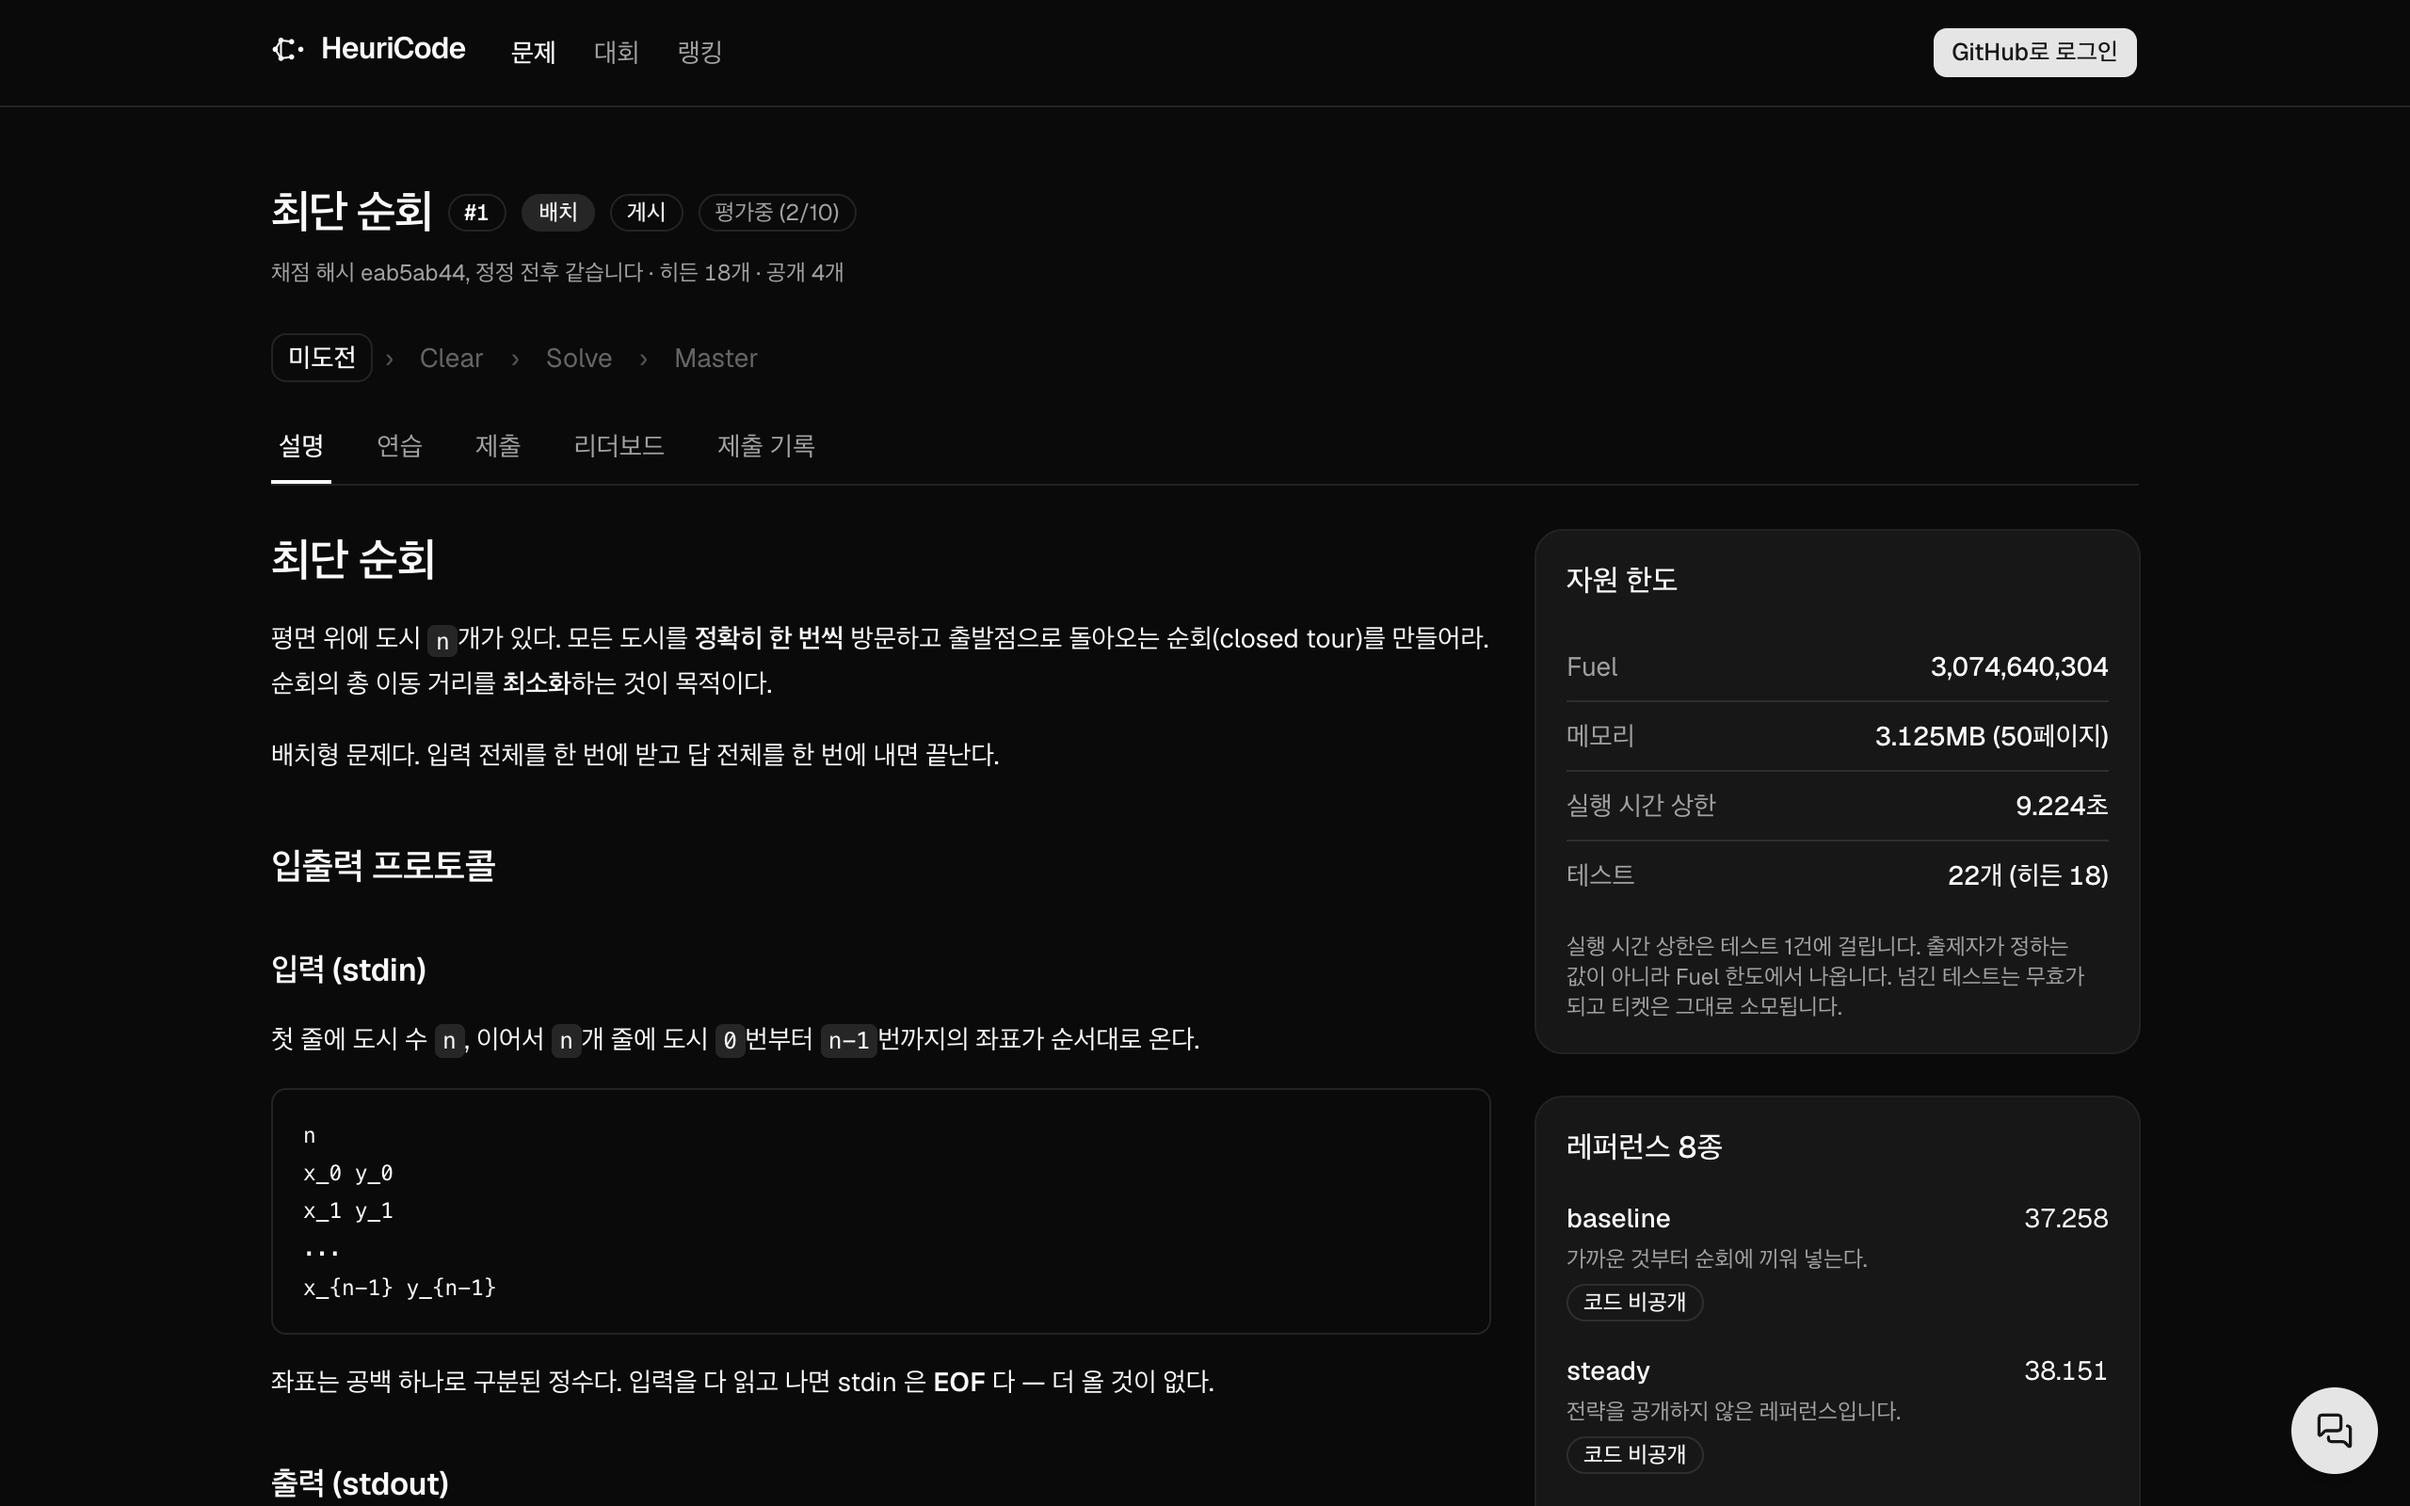
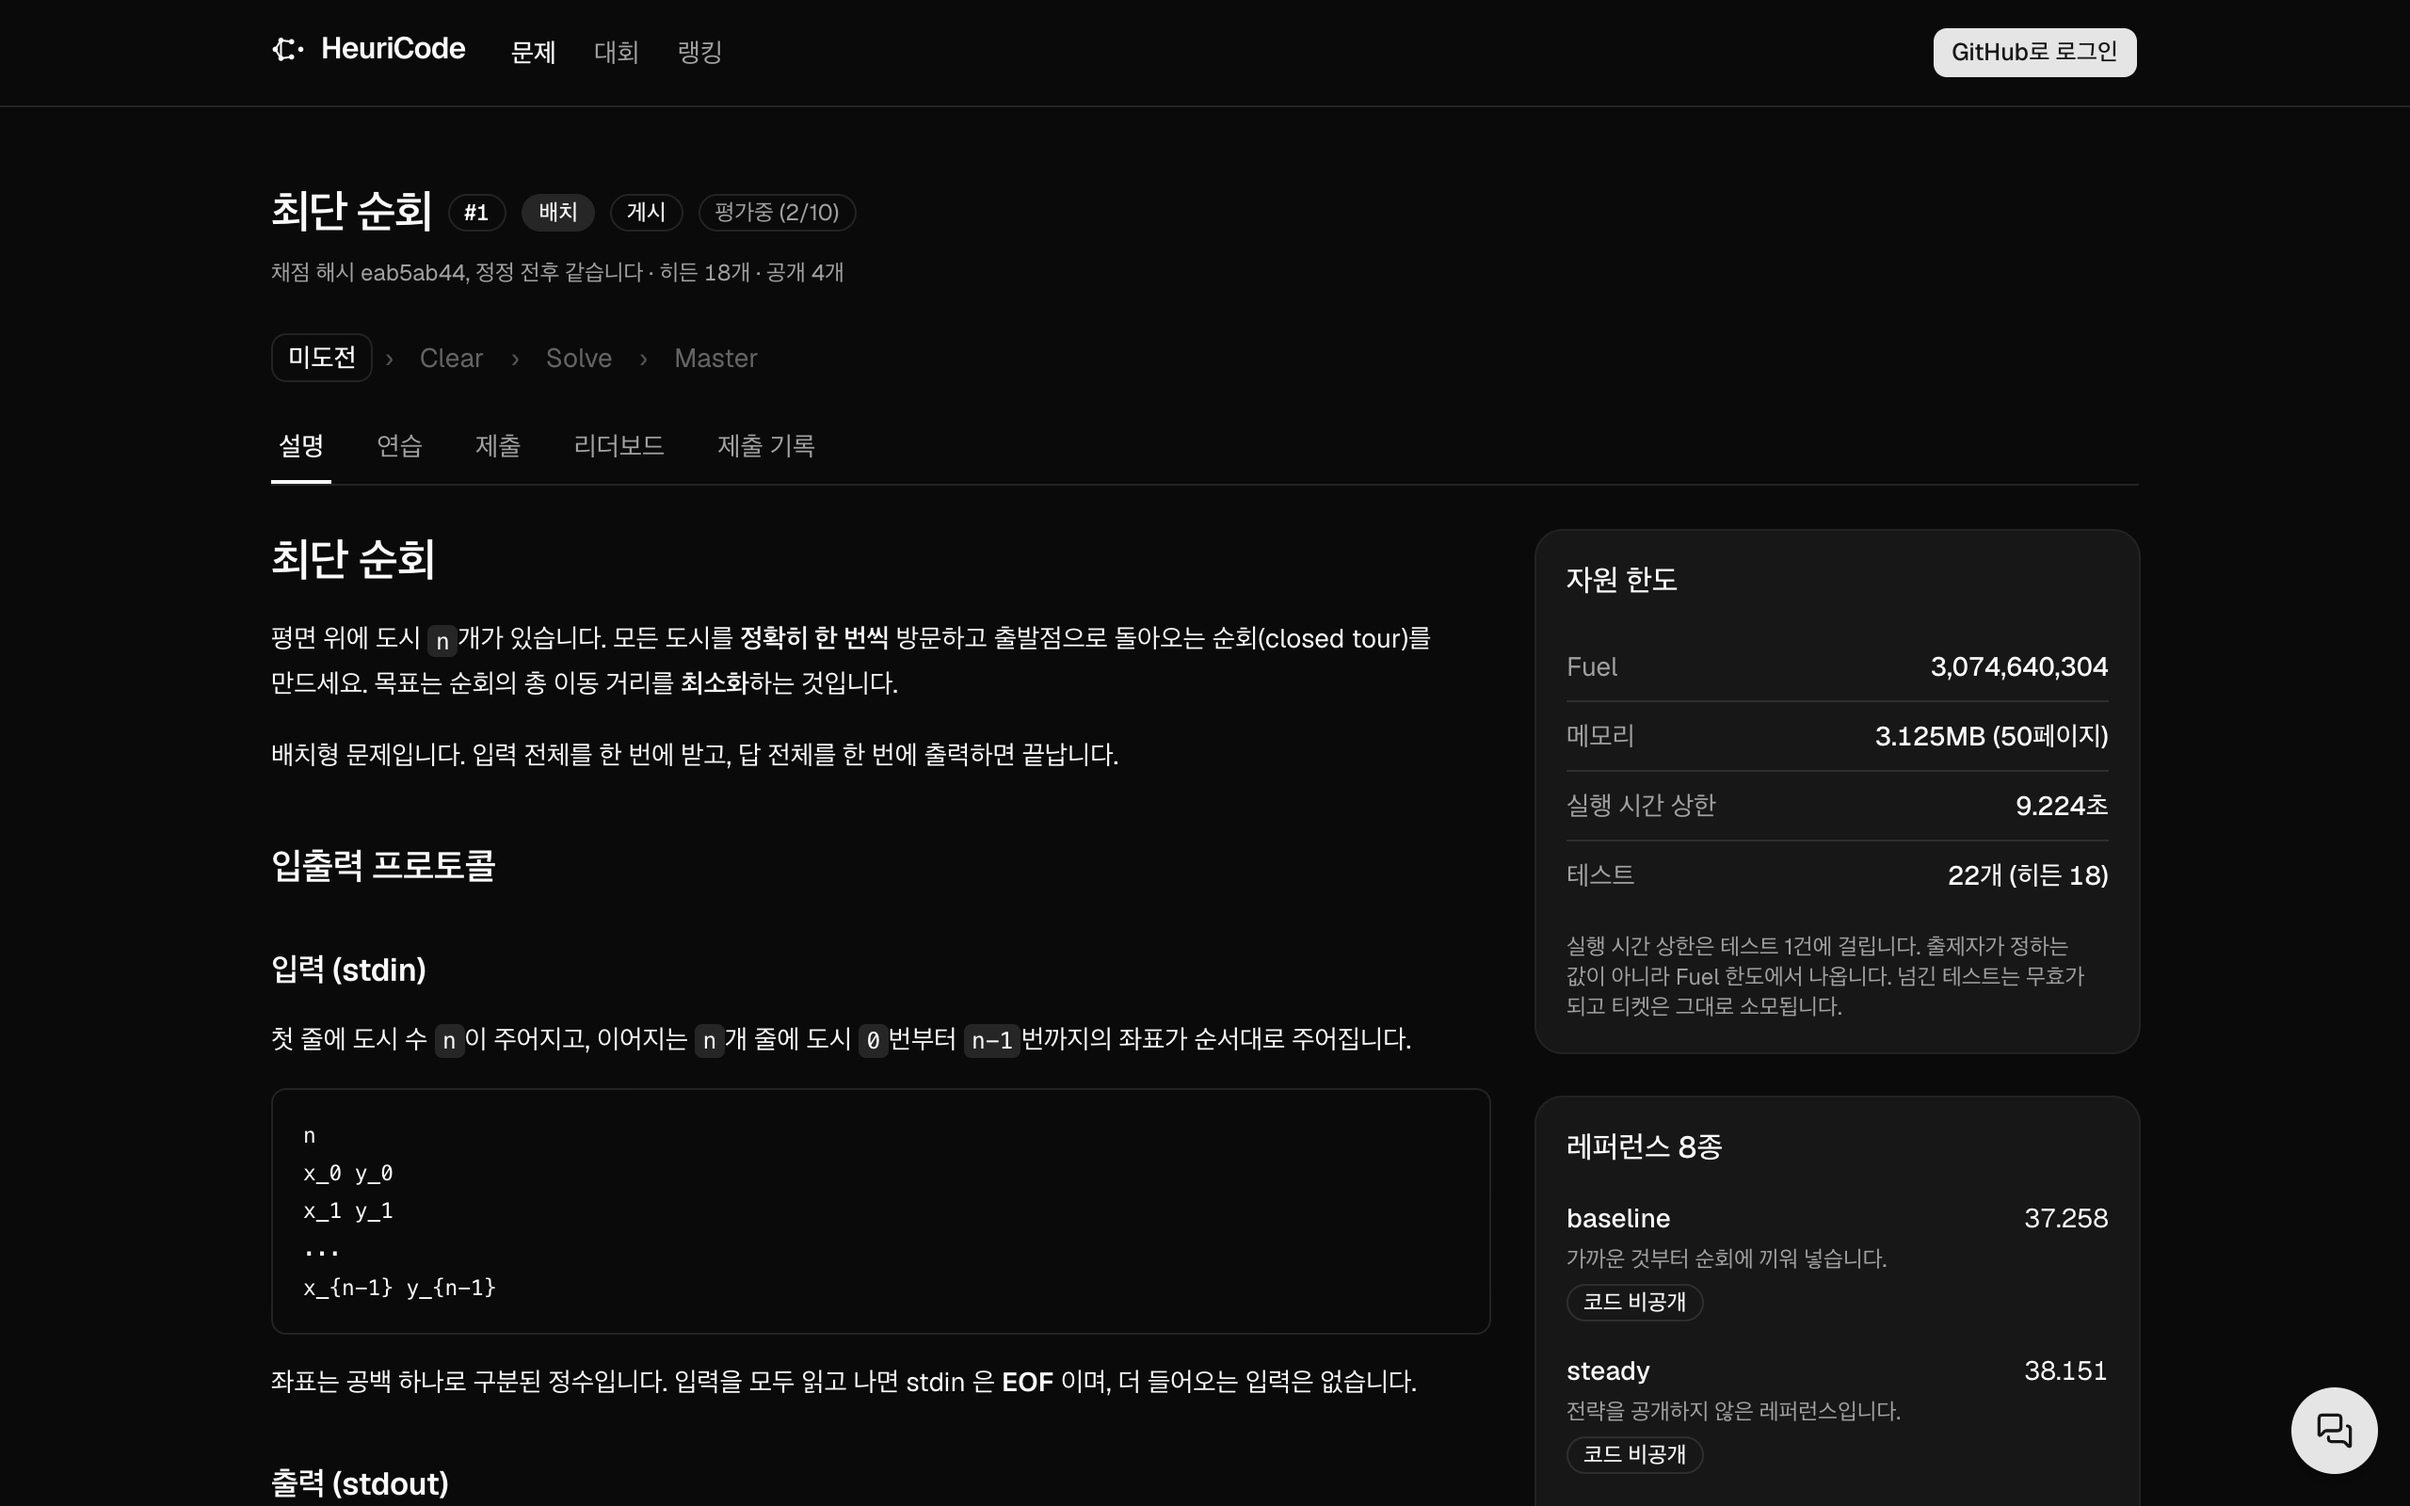
product: update images

diff --git a/products/01-heuri-code/index.md b/products/01-heuri-code/index.md
@@ -4,3 +4,11 @@ url: https://heuricode.nulleekh.com
 summary_ko: 경쟁형 알고리즘 문제풀이 플랫폼
 summary_en: A competitive platform for algorithm optimization
 ---
+
+![제출 평가 화면: Score와 레퍼런스별 승패](report.webp)
+
+![문제 리더보드와 자원 한도](leaderboard.webp)
+
+![문제 목록](problems.webp)
+
+![내 대시보드: 티어, 제출 티켓, 최근 제출](dashboard.webp)

diff --git a/products/03-halo/index.md b/products/03-halo/index.md
@@ -4,3 +4,5 @@ url: https://github.com/nulLeeKH/halo
 summary_ko: 사진과 함께 시계, 날씨, 일정을 보여주는 라즈베리 파이 기반 디지털 액자
 summary_en: A Raspberry Pi-based digital photo frame that also shows the time, weather and your calendar
 ---
+
+![세로로 세운 HALO 화면](portrait.webp)
